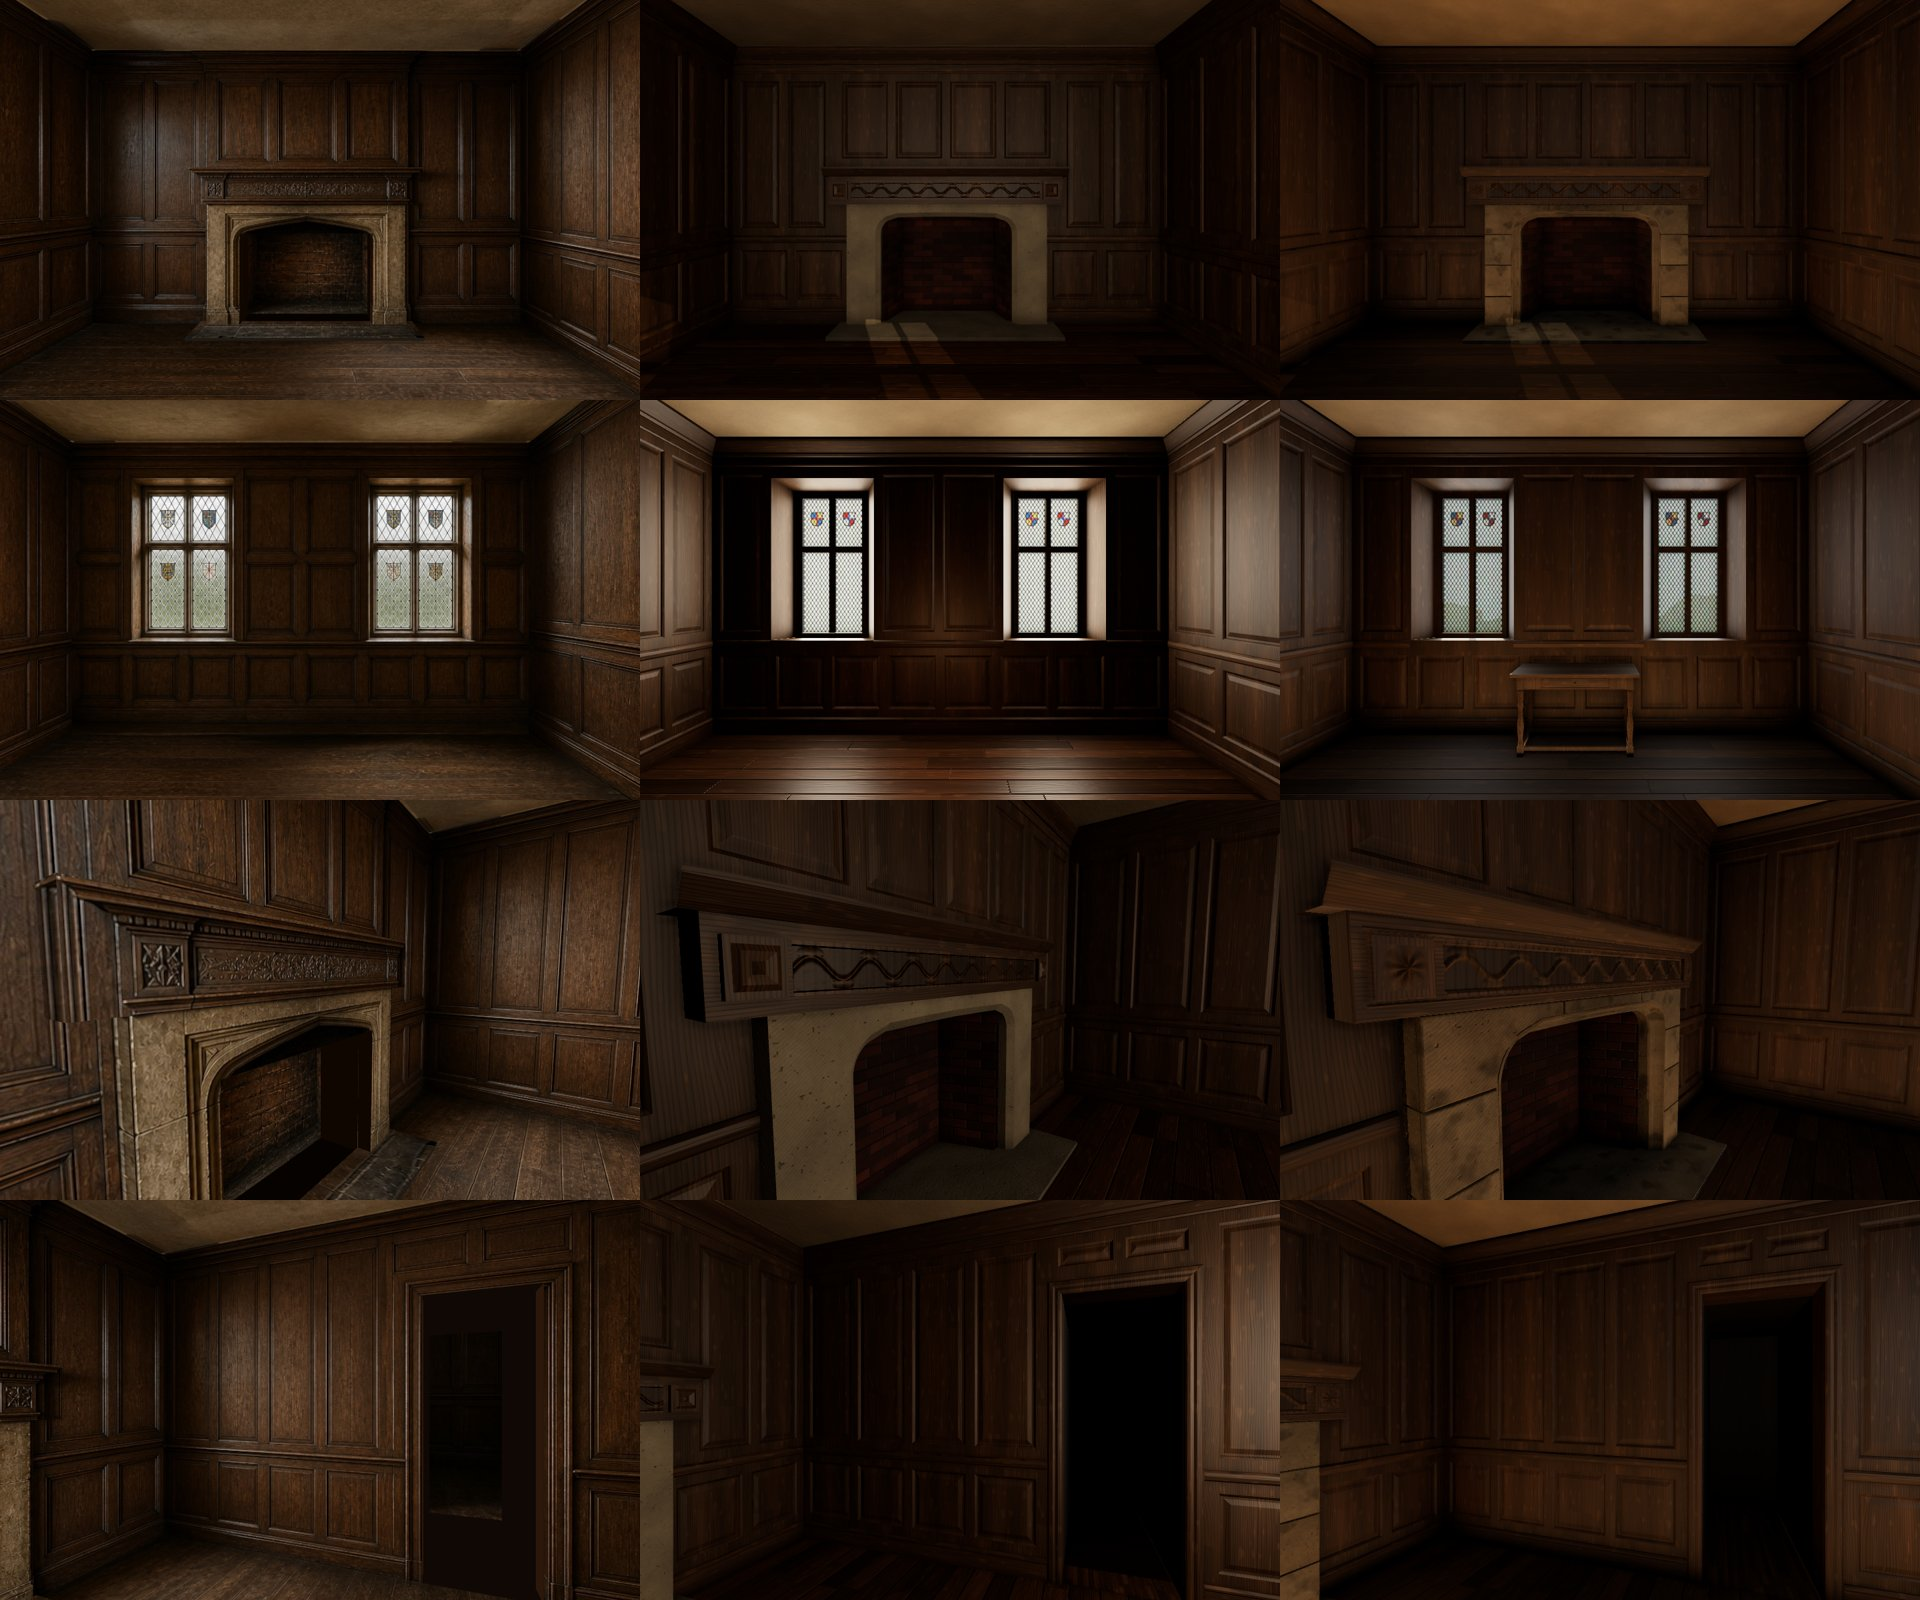
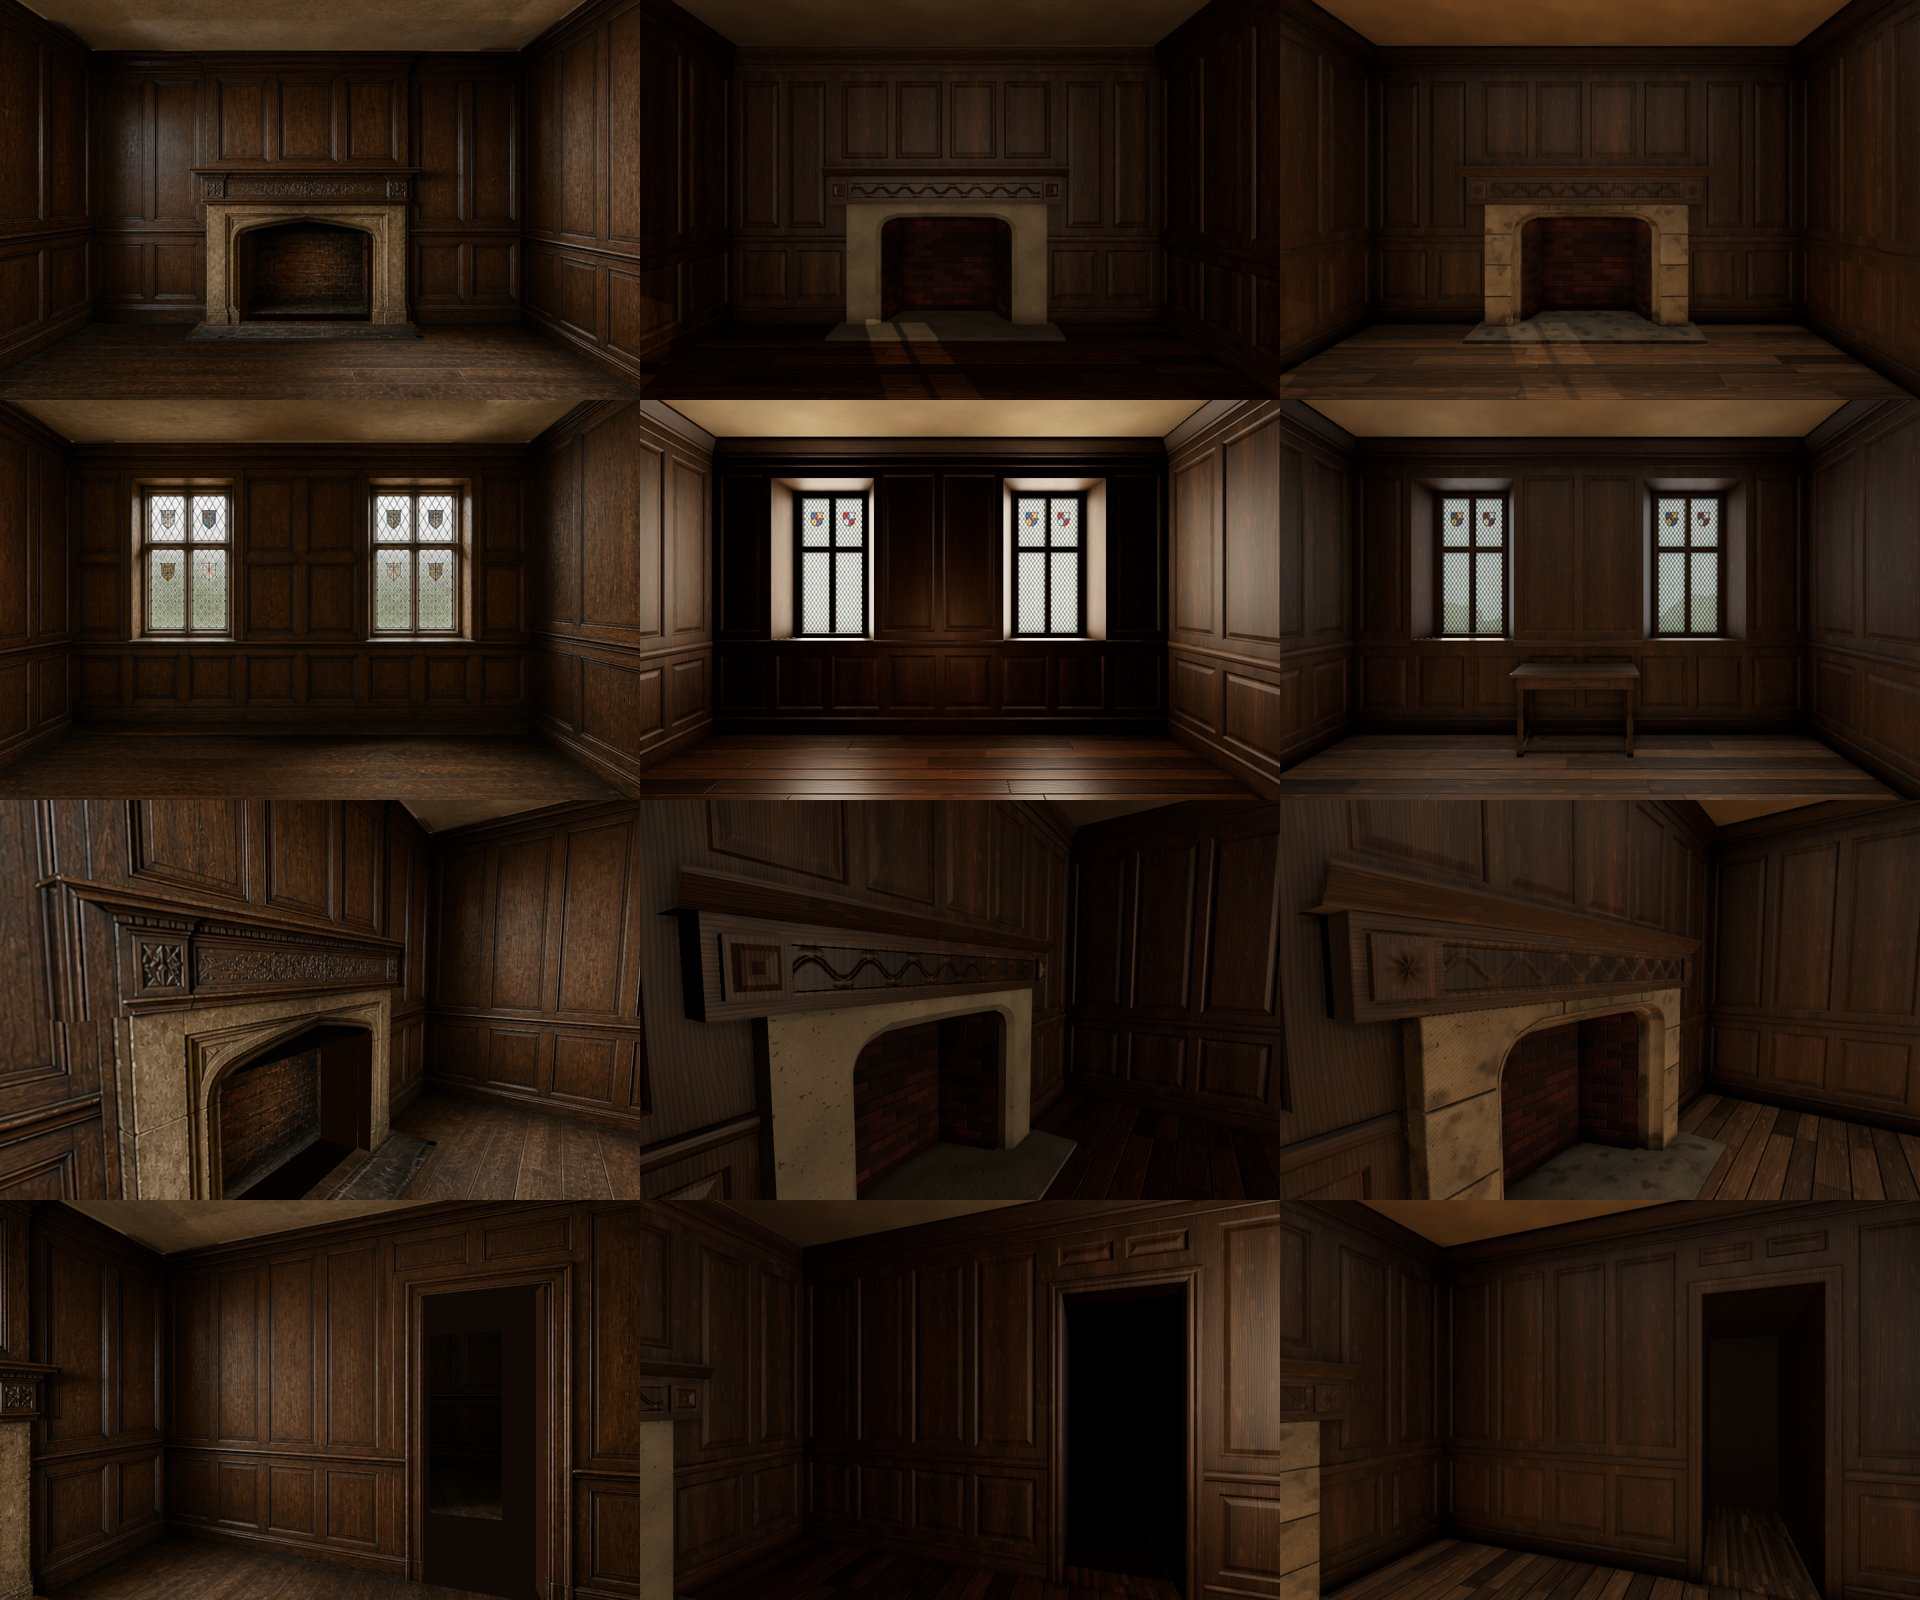
Zone instrument (tools/zones.mjs): painted vs code per zone from the painting cameras, by the code room's instance ids; v2 tuned to it — the bounce rig's naming fixed (the 'ceiling' light lights the floor), a south-glow fill for the far wall and fire, oak darkened to 0.84, floorboards lighter and gr
Claude-Session: https://claude.ai/code/session_01GbWmoMmX6HHdhymqiSAyJf

diff --git a/lab/painted/procedural.js b/lab/painted/procedural.js
@@ -78,9 +78,10 @@ function oakField(N) {
     const i = (y * N + x) * 3;
     // dark English oak, aged: warm brown; fleck paler, a touch of gold
     // sRGB fractions: aged dark oak, olive-brown more than red, about (84, 59, 36)
-    A[i] = 0.33 * k + fleck * 0.07;
-    A[i + 1] = 0.232 * k + fleck * 0.055;
-    A[i + 2] = 0.14 * k + fleck * 0.03;
+    // (zone-matched: the panelling read 15-50 % bright against the painting; this is 0.84 of the first pass)
+    A[i] = 0.277 * k + fleck * 0.06;
+    A[i + 1] = 0.195 * k + fleck * 0.046;
+    A[i + 2] = 0.118 * k + fleck * 0.025;
     H[y * N + x] = -late * 0.35 + fibre * 0.2 + fleck * 0.15;
   }
   return { A, H, N };
@@ -133,9 +134,12 @@ function floorTexture(THREE, oak, W, D, ppm, periodic = false) {
         const gap = (edge < 0.0022 ? 0.25 : edge < 0.004 ? 0.7 : 1) * (jd < 0.0022 ? 0.3 : 1);
         const wear = 1 + 0.12 * Math.exp(-Math.pow((Y - D * 0.45) / 1.1, 2)) * Math.exp(-Math.pow((X - W * 0.5) / 1.6, 2));
         const k = J.tone * gap * wear, o = (py * w + px) * 4;
-        d[o] = Math.min(255, oak.A[s] * 1.05 * k * 255);
-        d[o + 1] = Math.min(255, oak.A[s + 1] * 1.0 * k * 255);
-        d[o + 2] = Math.min(255, oak.A[s + 2] * 0.95 * k * 255);
+        // the floor is the same oak, worn lighter and waxed: the painting's boards sit well above its panelling
+        // ...and greyed by wear and dust: pulled a third of the way toward its own grey
+        const fr = oak.A[s] * 1.9 * k, fg = oak.A[s + 1] * 1.85 * k, fb = oak.A[s + 2] * 1.8 * k, fy = 0.3 * fr + 0.55 * fg + 0.15 * fb;
+        d[o] = Math.min(255, (fr * 0.64 + fy * 0.36) * 255);
+        d[o + 1] = Math.min(255, (fg * 0.64 + fy * 0.36) * 255);
+        d[o + 2] = Math.min(255, (fb * 0.64 + fy * 0.36) * 255);
         d[o + 3] = 255;
         H[py * w + px] = gap < 1 ? -1.2 : oak.H[sv * N + su] * 0.4;
       }
@@ -463,7 +467,7 @@ export async function makeKit(THREE, { floor = null, onStep = () => {} } = {}) {
   const M = {
     oak: grime(THREE, new THREE.MeshStandardMaterial({ ...oakV, roughness: 0.6, vertexColors: true, normalScale: new THREE.Vector2(0.18, 0.18) })),
     oakH: grime(THREE, new THREE.MeshStandardMaterial({ ...oakH, roughness: 0.6, vertexColors: true, normalScale: new THREE.Vector2(0.18, 0.18) })),
-    oakDim: new THREE.MeshStandardMaterial({ ...oakV, roughness: 0.7, color: 0x6a6a6a, vertexColors: true }),
+    oakDim: new THREE.MeshStandardMaterial({ ...oakV, roughness: 0.7, color: 0x6a6a6a, vertexColors: true, emissive: 0x160d07, emissiveIntensity: 1 }),
   };
   onStep("laying the floor");
   await new Promise(r => setTimeout(r));
@@ -781,13 +785,16 @@ export async function buildProcedural(THREE, schem, onStep = () => {}) {
   const hemi = new THREE.HemisphereLight(0x9a8a78, 0x2a1a0e, 0.35); scene.add(hemi);
   const bounce = new THREE.PointLight(0xffc890, 0, 7, 1.6); bounce.position.set(W / 2, 1.0, -1.2); scene.add(bounce);
   const area = (color, w, h, pos, look) => { const l = new THREE.RectAreaLight(color, 1, w, h); l.position.set(...pos); l.lookAt(...look); scene.add(l); return l; };
-  const floorB = area(0xffcf9a, W * 0.9, D * 0.9, [W / 2, 0.03, -D / 2], [W / 2, 5, -D / 2]);
-  const patchB = area(0xffd6a0, 3.0, 1.0, [W / 2, 0.04, -0.9], [W / 2, 5, -0.9]);
-  const ceilB = area(0xfff0dd, W * 0.8, D * 0.8, [W / 2, H - 0.03, -D / 2], [W / 2, -5, -D / 2]);
-  const northB = area(0xffd2a0, W * 0.8, H * 0.6, [W / 2, H * 0.45, -D + 0.08], [W / 2, H * 0.45, 5]);
-  const apply = (lv) => { floorB.intensity = lv.floorB; patchB.intensity = lv.patchB; ceilB.intensity = lv.ceilB; northB.intensity = lv.northB; };
+  // each is named for the surface that GIVES the light back, and faces away from it:
+  const floorB = area(0xffcf9a, W * 0.9, D * 0.9, [W / 2, 0.03, -D / 2], [W / 2, 5, -D / 2]);         // the floor's bounce: lights the ceiling
+  const patchB = area(0xffd6a0, 3.0, 1.0, [W / 2, 0.04, -0.9], [W / 2, 5, -0.9]);                  // the sunlit patch: lights ceiling and south wall
+  const ceilB = area(0xfff0dd, W * 0.8, D * 0.8, [W / 2, H - 0.03, -D / 2], [W / 2, -5, -D / 2]);   // the ceiling's bounce: lights the floor
+  const northB = area(0xffd2a0, W * 0.8, H * 0.6, [W / 2, H * 0.45, -D + 0.08], [W / 2, H * 0.45, 5]);  // the north wall's bounce: lights the south
+  const southFill = area(0xffd8aa, W * 0.6, 1.3, [W / 2, 1.1, -1.5], [W / 2, 1.1, -10]);            // the sunlit floor's glow, carried north: the far wall and the fire
+  const apply = (lv) => { floorB.intensity = lv.floorB; patchB.intensity = lv.patchB; ceilB.intensity = lv.ceilB; northB.intensity = lv.northB; southFill.intensity = lv.southFill ?? 0; };
   // levels matched to the paintings' luminance percentiles (p10 / p50 / p90) at the four painting poses
-  const defaults = { sun: 1.7, sky: 7, fill: 0.3, bounce: 0, floorB: 1.2, patchB: 1.8, ceilB: 0.22, northB: 0.45 };
+  // zone-matched (tools/zones.mjs): floor was a fifth of the painting's value, the south ceiling half again too bright
+  const defaults = { sun: 1.7, sky: 4.2, fill: 0.3, bounce: 0, floorB: 1.0, patchB: 0.3, ceilB: 1.5, northB: 0.25, southFill: 1.0 };
 
   return { scene, kit: K, lights: { sun, hemi, bounce, areas: lights, apply }, defaults,
     gtao: { radius: 0.5, distanceExponent: 1.6, thickness: 1.5, scale: 1.5, samples: 16 }, gtaoBlend: 1.0,

diff --git a/lab/painted/index.html b/lab/painted/index.html
@@ -354,6 +354,9 @@ window.__packet = async (F, scale = 1) => {
   // beauty_lit: the build as it is, fixed exposure, no UI
   renderer.toneMapping = THREE.ACESFilmicToneMapping; renderer.toneMappingExposure = EXPOSURE;
   composer.render(); out.passes.beauty_lit = shot();
+  // the painted shell from the very same camera, for zone-by-zone comparison (tools/zones.mjs)
+  renderer.toneMapping = THREE.NoToneMapping; renderer.render(scene, camera); out.passes.painted = shot();
+  renderer.toneMapping = THREE.ACESFilmicToneMapping;
   // beauty_neutral: soft even light, no cast shadows, no AO
   const keep = { ...LV }, hemi = code.lights.hemi, hc = [hemi.color.clone(), hemi.groundColor.clone()];
   setLights({ ...Object.fromEntries(Object.keys(LV).map(k => [k, 0])), fill: Math.PI });

diff --git a/tools/zones.py b/tools/zones.py
@@ -1,0 +1,73 @@
+#!/usr/bin/env python3
+"""Compare the painted shell and the code room zone by zone (see tools/zones.mjs).
+
+For each painting pose F, zones come from the code room's instance ids:
+ceiling, target wall (owner F, not an aperture), left and right returns (the facings either side),
+floor near/far (split at the median floor depth), windows (glass), doors (passage/lining), fireplace.
+Luminance is Rec.709 on the sRGB image after a 9 px blur (the painting's detail is not the point).
+Writes zones.json and zones.png (per-zone code/painted ratio as a heat overlay) under the output dir.
+"""
+import json, os, sys
+import numpy as np, cv2
+
+LEFT = {"N": "W", "E": "N", "S": "E", "W": "S"}; RIGHT = {"N": "E", "E": "S", "S": "W", "W": "N"}
+
+def lum(path):
+    a = cv2.imread(path)[..., ::-1].astype(np.float32)
+    return cv2.GaussianBlur(0.2126 * a[..., 0] + 0.7152 * a[..., 1] + 0.0722 * a[..., 2], (0, 0), 9)
+
+def zones_for(F, d):
+    meta = json.load(open(os.path.join(d, "meta.json"))); w, h = meta["camera"]["width"], meta["camera"]["height"]
+    inst = np.fromfile(os.path.join(d, "instance_u8.bin"), np.uint8).reshape(h, w, 4)[::-1, :, :3]
+    depth = np.fromfile(os.path.join(d, "depth_f32.bin"), np.float32).reshape(h, w)[::-1]
+    code = (inst[..., 0].astype(np.int64) << 16) | (inst[..., 1].astype(np.int64) << 8) | inst[..., 2]
+    imap = {int(k): v for k, v in meta["ids"]["instance"].items()}
+    name = np.full((h, w), "", object)
+    for c, v in imap.items(): name[code == c] = v["id"]
+    own = lambda f: np.char.startswith(name.astype(str), f + "/")
+    has = lambda sub: np.char.find(name.astype(str), sub) >= 0
+    aperture = has("/glass") | has("/outside") | has("/window") | has("door")
+    fire = has("chimneypiece") | has("hearth")
+    Z = {
+        "ceiling": name == "ceiling",
+        "target_wall": own(F) & ~aperture & ~fire,
+        "left_return": own(LEFT[F]) & ~aperture,
+        "right_return": own(RIGHT[F]) & ~aperture,
+        "windows": has("/glass") | has("/outside"),
+        "doors": has("door") & ~has("/glass"),
+        "fireplace": fire,
+    }
+    fl = name == "floor"
+    if fl.any():
+        med = np.median(depth[fl]); Z["floor_near"] = fl & (depth < med); Z["floor_far"] = fl & (depth >= med)
+    return {k: v for k, v in Z.items() if v.sum() > 400}
+
+def main(out):
+    report, tiles = {}, []
+    for F in "NESW":
+        d = os.path.join(out, F)
+        Lc, Lp = lum(os.path.join(d, "beauty_lit.png")), lum(os.path.join(d, "painted.png"))
+        Z = zones_for(F, d); rows = {}
+        overlay = cv2.imread(os.path.join(d, "beauty_lit.png")).astype(np.float32) * 0.5; labels = []
+        for k, m in Z.items():
+            c, p = float(np.median(Lc[m])), float(np.median(Lp[m]))
+            ratio = c / max(p, 1.0); rows[k] = {"code": round(c, 1), "painted": round(p, 1), "ratio": round(ratio, 2), "px": int(m.sum())}
+            col = (60, 60, 230) if ratio > 1.15 else (230, 120, 50) if ratio < 0.85 else (80, 200, 80)      # BGR: red = too bright, blue = too dark
+            overlay[m] = overlay[m] * 0.55 + np.array(col) * 0.45
+            labels.append((k, ratio, m))
+        overlay = overlay.astype(np.uint8)
+        for k, ratio, m in labels:
+            ys, xs = np.nonzero(m); cv2.putText(overlay, f"{k} {ratio:.2f}", (int(np.median(xs)) - 60, int(np.median(ys))), cv2.FONT_HERSHEY_SIMPLEX, 0.7, (255, 255, 255), 2)
+        report[F] = rows
+        tiles.append(cv2.resize(overlay, (768, 512)))
+    cv2.imwrite(os.path.join(out, "zones.png"), np.vstack([np.hstack(tiles[:2]), np.hstack(tiles[2:])]))
+    json.dump(report, open(os.path.join(out, "zones.json"), "w"), indent=1)
+    for d in "NESW":
+        for f in ("depth_f32.bin", "instance_u8.bin", "hit_f32.bin"):
+            q = os.path.join(out, d, f)
+            if os.path.exists(q): os.remove(q)
+    for F, rows in report.items():
+        print(F, "  ".join(f"{k} {v['ratio']:.2f}" for k, v in rows.items()))
+
+if __name__ == "__main__":
+    main(sys.argv[1])

diff --git a/lab/painted/NOTES.md b/lab/painted/NOTES.md
@@ -164,3 +164,34 @@ v1 is frozen in `procedural-v1.js`, exactly as first shown for grading. v2 lives
    bosses and a deeper shelf.
 
 `compare-painted-v1-v2.jpg` shows painted, v1 and v2, in four matched views.
+
+# Zone-matched light (tools/zones.mjs)
+
+`node tools/zones.mjs muniment_room --code v2` renders the painted shell and
+the code room from each painting's exact camera. It splits every view into
+zones using the code room's own instance IDs: ceiling, target wall, left and
+right returns, floor near and far, windows, doors, fireplace. It then compares
+low-pass luminance per zone and writes `zones/v2/zones.json` and `zones.png`
+(red = code too bright, blue = too dark).
+
+What it found that the eye had not:
+- The floor was a fifth of the painting's value.
+- The bounce rig was named backwards: the light called "ceiling bounce" hangs at
+  the ceiling facing down, so it lights the floor. It was being dimmed to calm the
+  ceiling.
+- The walls sat 15–50 % bright, a material fault, not a light one: the oak is
+  now 0.84 of the first pass, and the floorboards are lighter and greyed.
+
+Code-to-painted ratios now (1.0 = a match):
+
+| pose | ceiling | target wall | left return | right return | doors | fireplace | floor near/far |
+|---|---|---|---|---|---|---|---|
+| N | 0.89 | 1.00 | 1.03 | 0.66 | – | 1.04 | 0.84 / 1.28 |
+| E | 0.89 | 0.99 | 0.74 | 0.65 | 0.98 | 0.96 | 0.92 / 0.98 |
+| S | 1.15 | 1.14 | 1.47 | 0.80 | – | – | 1.22 / 1.49 |
+| W | 0.94 | 1.29 | 0.76 | 0.53 | 0.89 | 0.63 | 1.04 / 1.28 |
+
+The residue is pose-dependent: the same wall reads bright from one side and
+dark from the other. Part of that is the four paintings disagreeing with each
+other, since each was lit on its own. The next gain is a proper light bake,
+not more hand levels.
